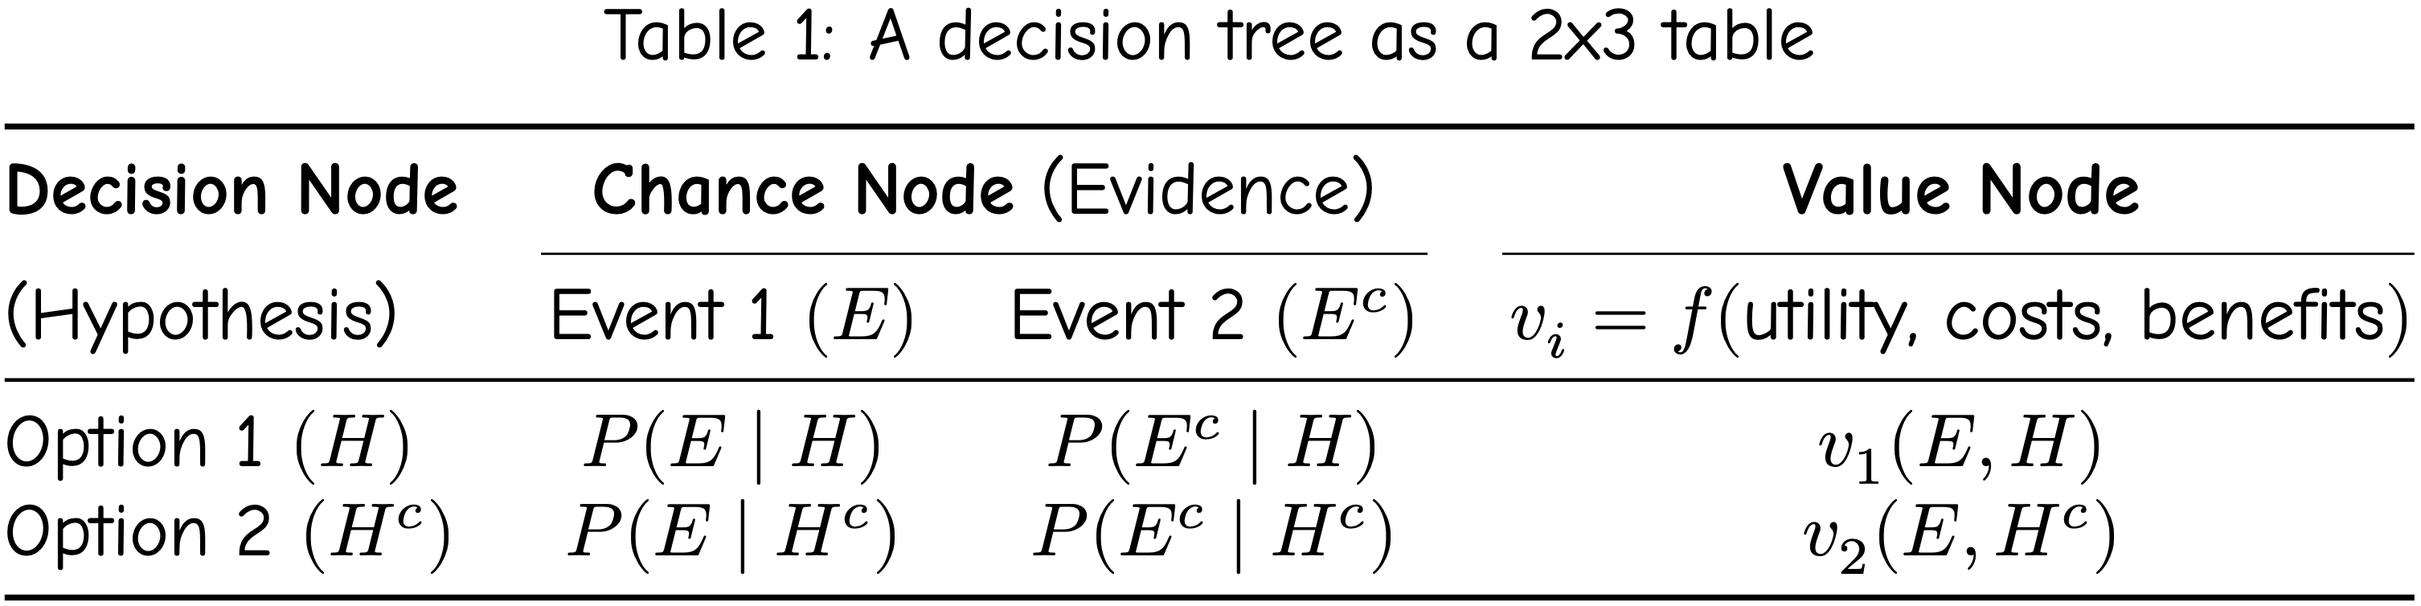
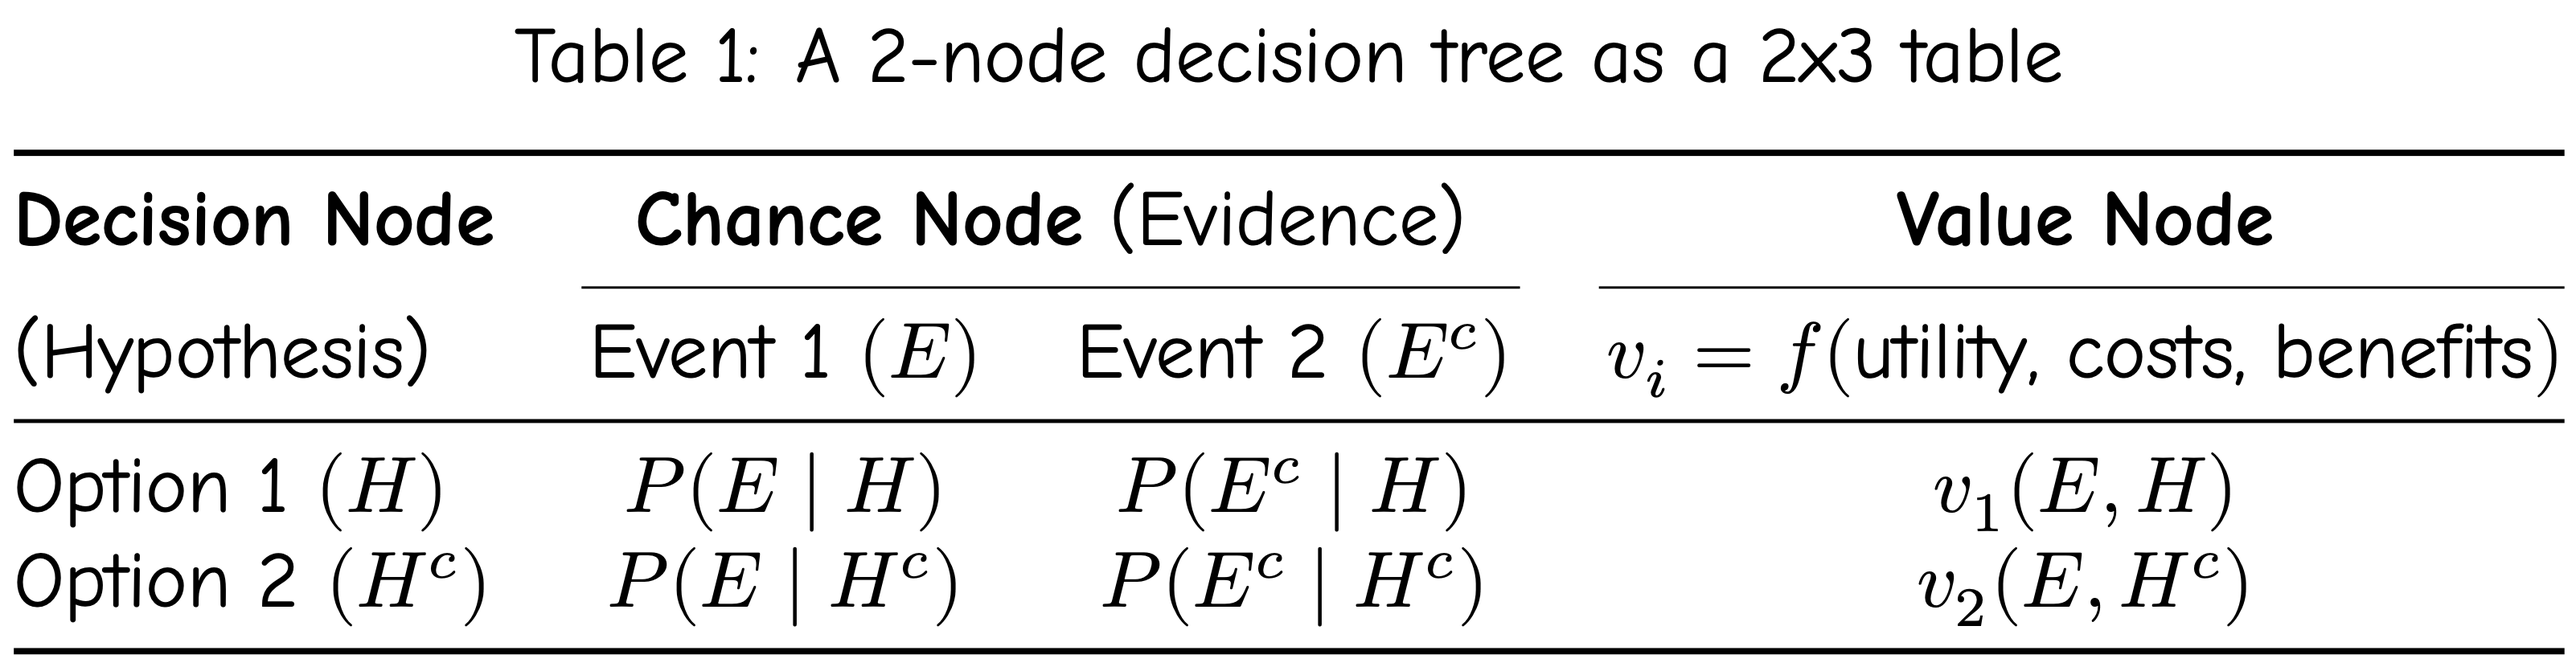
update folders with articles and figures

diff --git a/notebooks/Petitti_2000_isbn_9780195133646_ch02/latex_comicneue_table1_v2.tex b/notebooks/Petitti_2000_isbn_9780195133646_ch02/latex_comicneue_table1_v2.tex
@@ -35,7 +35,7 @@
   \centering
 %  \rowcolors{1}{annals!0}{annals!100}
   \setcounter{table}{0} % Set ngives 3
-  \caption{A decision tree as a 2x3 table}
+  \caption{A 2-node decision tree as a 2x3 table}
   \label{tab:lab}    
   \begin{tabular}{@{}lccc@{}}
     \toprule
